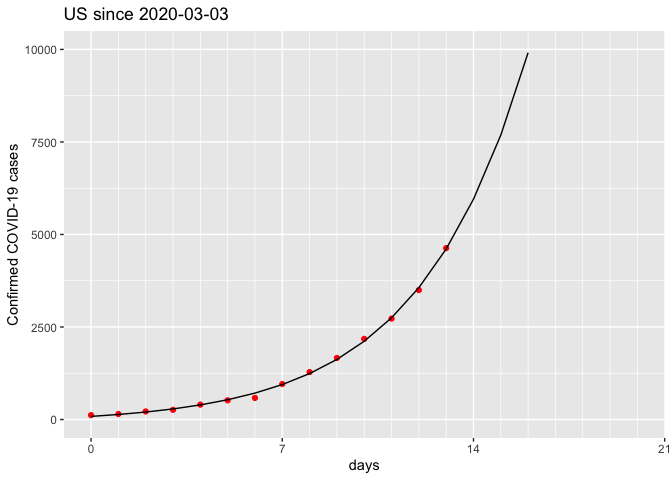
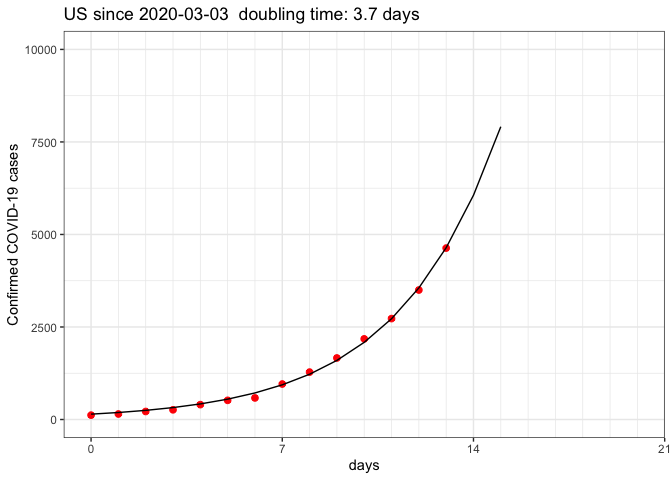
update the fitting procedure

diff --git a/README.md b/README.md
@@ -76,36 +76,55 @@ Add an exponential fit:
 ![](README_files/figure-gfm/unnamed-chunk-7-1.png)<!-- -->
 
     ## 
-    ## Formula: Confirmed ~ A + B * exp(DateDaysNorm/T1)
+    ## Formula: Confirmed ~ A * exp(DateDaysNorm/T1)
     ## 
     ## Parameters:
-    ##    Estimate Std. Error t value Pr(>|t|)    
-    ## A  -93.4514    43.0040  -2.173   0.0525 .  
-    ## B  178.0947    18.1400   9.818 8.88e-07 ***
-    ## T1   3.9717     0.1202  33.031 2.34e-12 ***
+    ##     Estimate Std. Error t value Pr(>|t|)    
+    ## A  144.88143    8.04509   18.01 4.73e-10 ***
+    ## T1   3.74980    0.06656   56.34 6.45e-16 ***
     ## ---
     ## Signif. codes:  0 '***' 0.001 '**' 0.01 '*' 0.05 '.' 0.1 ' ' 1
     ## 
-    ## Residual standard error: 53.66 on 11 degrees of freedom
+    ## Residual standard error: 62.25 on 12 degrees of freedom
     ## 
     ## Number of iterations to convergence: 5 
-    ## Achieved convergence tolerance: 1.003e-06
+    ## Achieved convergence tolerance: 1.163e-06
 
 ## Growth rates
 
 Growth rates since 100th confirmed case in different countries for first
 10 days.
 
-![](README_files/figure-gfm/unnamed-chunk-8-1.png)<!-- -->![](README_files/figure-gfm/unnamed-chunk-8-2.png)<!-- -->
+    ## [1] "Australia"
+    ## [1] "Austria"
+    ## [1] "Belgium"
+    ## [1] "Canada"
+    ## [1] "China"
+    ## [1] "France"
+    ## [1] "Germany"
+    ## [1] "Greece"
+    ## [1] "Iran"
+    ## [1] "Italy"
+    ## [1] "Japan"
+    ## [1] "Korea, South"
+    ## [1] "Malaysia"
+    ## [1] "Netherlands"
+    ## [1] "Norway"
+    ## [1] "Portugal"
+    ## [1] "Spain"
+    ## [1] "Sweden"
+    ## [1] "Switzerland"
+    ## [1] "United Kingdom"
+    ## [1] "US"
 
-![](README_files/figure-gfm/unnamed-chunk-9-1.png)<!-- -->
+![](README_files/figure-gfm/unnamed-chunk-8-1.png)<!-- -->
 
 ## Deaths
 
 Graphing some countries with exponentially growing death rates at the
 moment:
 
-![](README_files/figure-gfm/unnamed-chunk-11-1.png)<!-- -->
+![](README_files/figure-gfm/unnamed-chunk-10-1.png)<!-- -->
 
 Renormalizing the start dates for `recorded deaths`, we find the dates
 when the `5th death` was recorded in each country:
@@ -144,4 +163,4 @@ when the `15th death` was recorded in each country:
 | 8  | Netherlands    |    30 |
 | 3  | Germany        |    31 |
 
-![](README_files/figure-gfm/unnamed-chunk-14-1.png)<!-- -->
+![](README_files/figure-gfm/unnamed-chunk-13-1.png)<!-- -->
